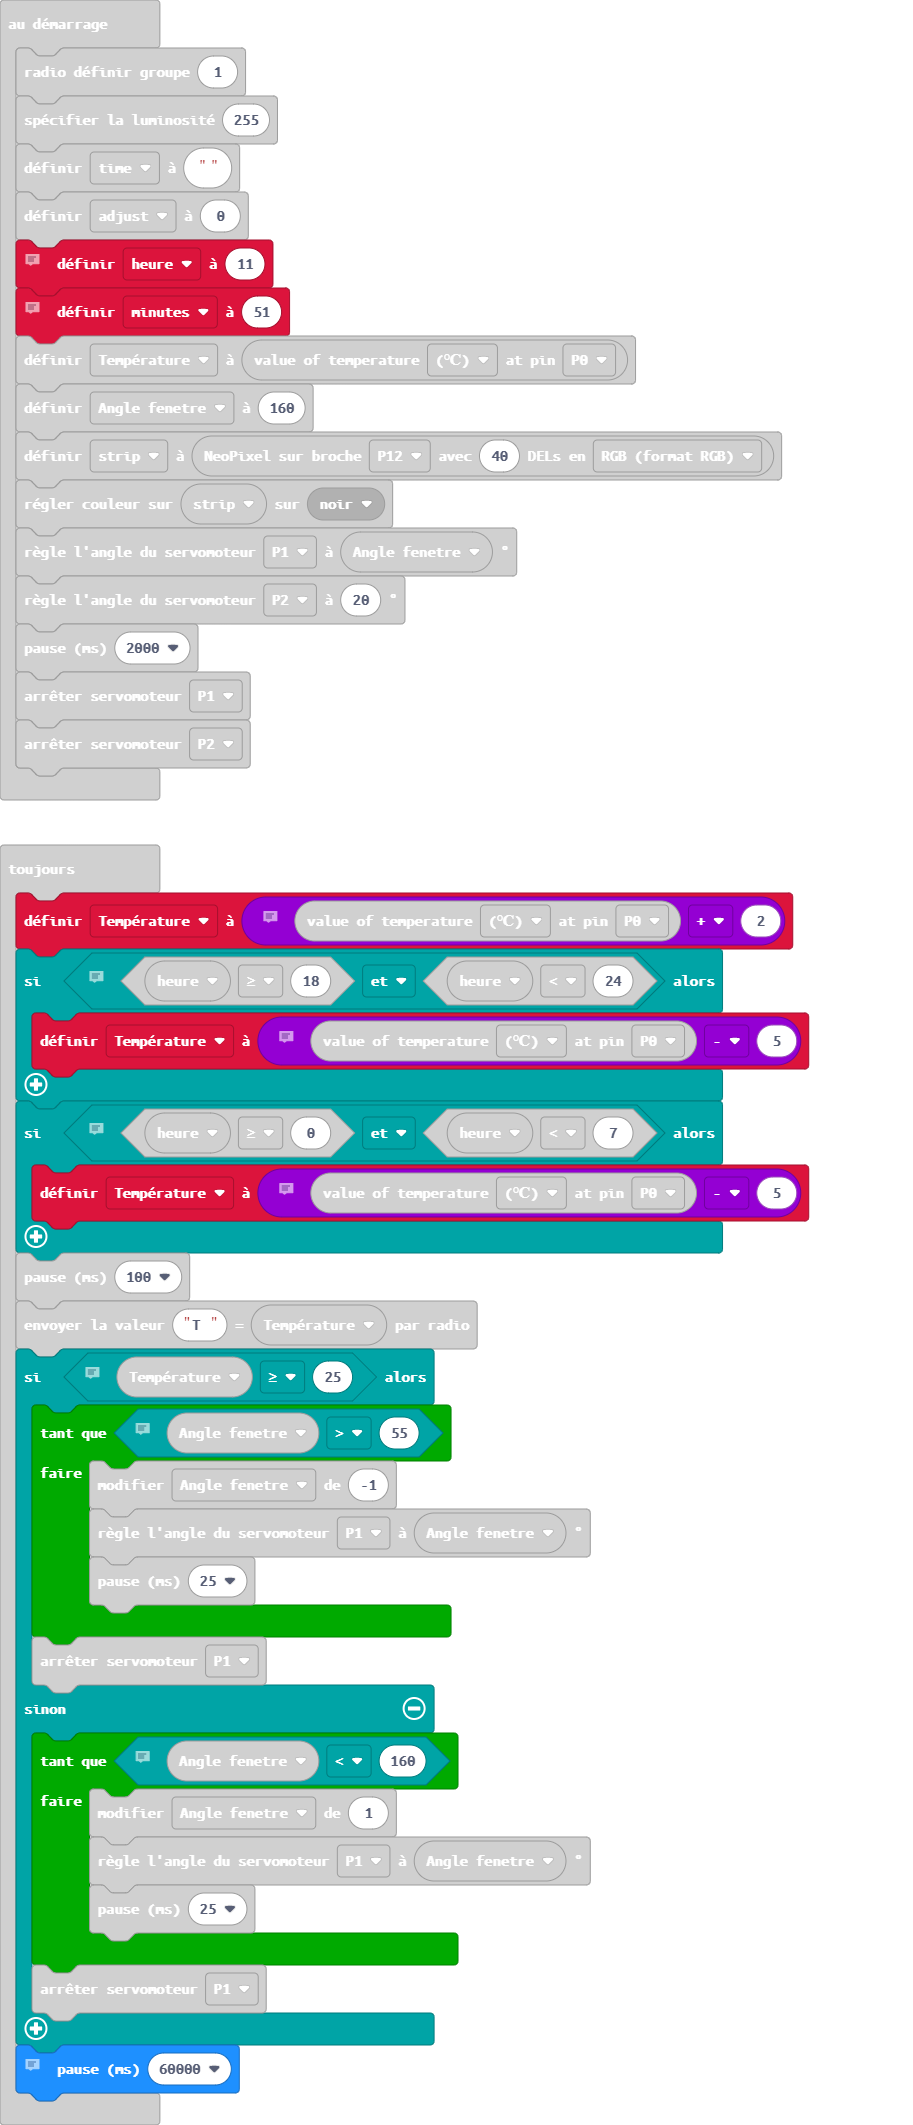
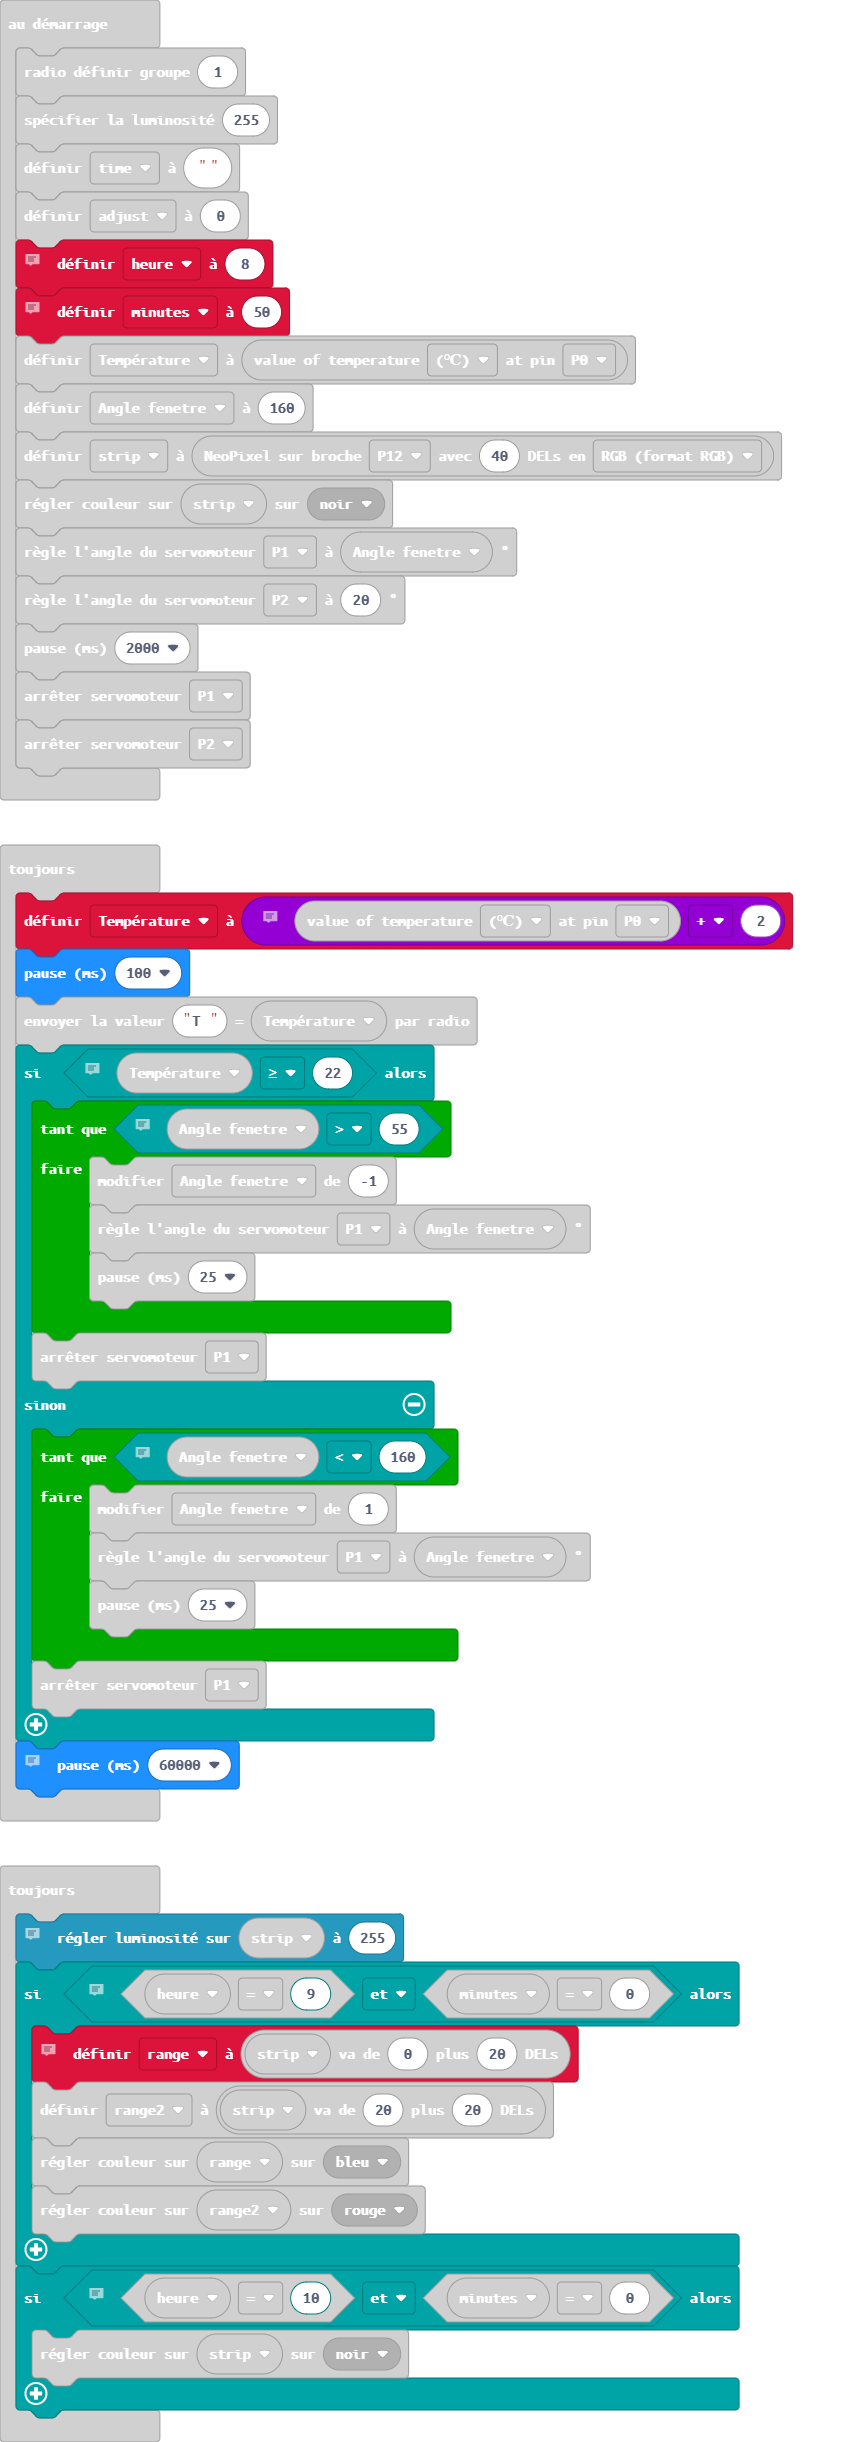
retrait ajustements temp

diff --git a/main.ts b/main.ts
@@ -33,9 +33,9 @@ led.setBrightness(255)
 time = ""
 adjust = 0
 // Ajuster l'heure lorsque vous démarrerez le micro:bit
-heure = 11
+heure = 8
 // Ajuster les minutes lorsque vous démarrerez le micro:bit
-minutes = 51
+minutes = 50
 Température = smarthome.ReadTemperature(TMP36Type.TMP36_temperature_C, AnalogPin.P0)
 let Angle_fenetre = 160
 let strip = neopixel.create(DigitalPin.P12, 40, NeoPixelMode.RGB)
@@ -71,20 +71,10 @@ basic.forever(function () {
 basic.forever(function () {
     // Calibrer votre sonde avec un autre thermomètre et ajuster le calcul en conséquence.
     Température = smarthome.ReadTemperature(TMP36Type.TMP36_temperature_C, AnalogPin.P0) + 2
-    // Ajuster l'heure à laquelle vous désirez ouvrir les lumières.
-    if (heure >= 18 && heure < 24) {
-        // Calibrer votre sonde avec un autre thermomètre et ajuster le calcul en conséquence.
-        Température = smarthome.ReadTemperature(TMP36Type.TMP36_temperature_C, AnalogPin.P0) - 5
-    }
-    // Ajuster l'heure à laquelle vous désirez ouvrir les lumières.
-    if (heure >= 0 && heure < 7) {
-        // Calibrer votre sonde avec un autre thermomètre et ajuster le calcul en conséquence.
-        Température = smarthome.ReadTemperature(TMP36Type.TMP36_temperature_C, AnalogPin.P0) - 5
-    }
     basic.pause(100)
     radio.sendValue("T ", Température)
     // Ajuster cette valeur en fonction de vos paramètres expérimentaux
-    if (Température >= 25) {
+    if (Température >= 22) {
         // Auster cette valeur de l'angle d'ouverture pour que la fenêtre reste ouverte sans courant.
         while (Angle_fenetre > 55) {
             Angle_fenetre += -1
@@ -122,7 +112,7 @@ basic.forever(function () {
     // Permet d'ajuster l'intensité lumineuse des DEL
     strip.setBrightness(255)
     // Ajuster l'heure à laquelle vous désirez ouvrir les lumières.
-    if (heure == 18 && minutes == 0) {
+    if (heure == 9 && minutes == 0) {
         // Permet de sélectionner des couleurs d'éclairage.  Ici les DEL 0 à 19 sont bleues et les DEL 20 à 40 sont rouges.  Si on veut ajouter d'autres couleurs, il faut créer un nouvelle variable (ex : range3).SI on veut une seule couleur, on retire les blocs en lien avec "range2".
         range = strip.range(0, 20)
         range2 = strip.range(20, 20)
@@ -130,7 +120,7 @@ basic.forever(function () {
         range2.showColor(neopixel.colors(NeoPixelColors.Red))
     }
     // Ajuster l'heure à laquelle vous désirez fermer les lumières.
-    if (heure == 7 && minutes == 0) {
+    if (heure == 10 && minutes == 0) {
         strip.showColor(neopixel.colors(NeoPixelColors.Black))
     }
 })
